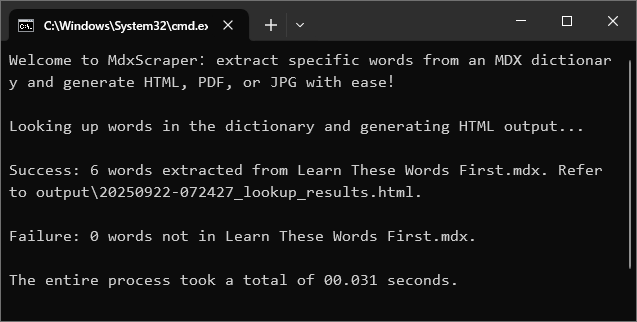
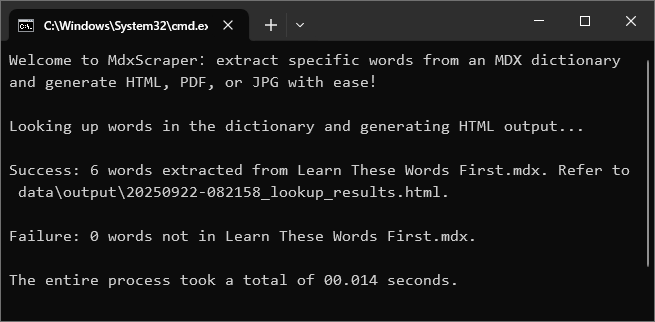
Refactor the project structure to separate data from code.
1. Move input, output and mdict to 'data/'
2. Update README
3. Clean up .gitignore and remove outdated files.

diff --git a/data/output/20250922-082733_lookup_results.html b/data/output/20250922-082733_lookup_results.html
@@ -1,0 +1,57 @@
+<head>
+<meta charset="utf-8"/><style type="text/css">div {font-family:Ariel,sans-serif;margin:0;border:0;padding:0;}
+p {font-size:1em;margin:10px;border:0;padding:0;}
+ul {margin:10px;border:0;padding:0;}
+li {font-family:Ariel,sans-serif;font-size:1em;margin:10px 10px 10px 30px;border:0;padding:0;}
+a:link {color:blue;}
+a:visited {color:purple;}
+.Header{font-size:1.5em;}
+.Headword {color:red;}
+.Definition {font-size:1.1em;}
+.Caption {font-size:1.1em;}
+.Sense {font-size:1.1em;}
+img {height:auto;width:auto;max-width:100%;border:0;}
+img.Image {width:auto;max-width:100%;height:auto;max-height:400px;}
+img.Gloss {width:auto;max-width:100%;height:auto;max-height:100px;}
+p.Image {margin-left:0;margin-right:0;}
+p.Gloss {margin-left:0;margin-right:0;}
+@media screen and (min-width:940px)
+{
+p.Image {margin-left:10px;margin-right:10px;}
+p.Gloss {margin-left:10px;margin-right:10px;}
+}
+
+a.lesson {font-size:120%; color: #1a237e; text-decoration: none; cursor: pointer; border-bottom: none;}
+a.lesson:hover {background-color: #e3f2fd}
+a.word {color: #1565c0; text-decoration: none; cursor: pointer; font-variant: normal; font-weight: normal; border-bottom: none;}
+a.word:hover {background-color: #e3f2fd;}
+a.invalid_word {color: #909497;}
+div.main {width: 100%; height: 100%;}
+div.left {width: 180px; overflow: auto; float: left; height: 100%;}
+div.right {overflow-y: auto; overflow-x: hidden; padding-left: 10px; height: 100%;}
+</style></head><html>
+<body style="font-family:Arial Unicode MS;"><div class="left"><a class="lesson" href="#lesson_ Lesson 1"> Lesson 1</a><br/>
+<a class="word" href="#word_welcome">welcome</a><br/>
+<a class="word" href="#word_summer">summer</a><br/>
+<a class="word" href="#word_crime">crime</a><br/>
+<br/><a class="lesson" href="#lesson_ Lesson 2"> Lesson 2</a><br/>
+<a class="word" href="#word_flame">flame</a><br/>
+<a class="word" href="#word_meat">meat</a><br/>
+<a class="word" href="#word_camera">camera</a><br/>
+<br/></div><div class="main"><div class="right"><h1 id="lesson_ Lesson 1" style="color:#FFFFFF; background-color:#003366; padding-left:20px; line-height:initial;"> Lesson 1</h1>
+<div class="scrapedword" id="word_welcome" style="padding: 10px 0 10px 0; border-bottom: 0.5mm ridge rgba(111, 160, 206, .6);"><p class="Header"><b class="Headword">welcome</b></p>
+<ul>
+<li class="Sense">When someone moves into a place, you say you are happy that they are here.</li>
+<li class="Sense">You say you are happy to help someone.</li>
+<li class="Sense">You say you are happy this happens.</li>
+</ul></div>
+<div class="scrapedword" id="word_summer" style="padding: 10px 0 10px 0; border-bottom: 0.5mm ridge rgba(111, 160, 206, .6);"><p class="Header"><b class="Headword">summer</b></p>
+<p class="Sense">Three months that are the hot part of a year.</p></div>
+<div class="scrapedword" id="word_crime" style="padding: 10px 0 10px 0; border-bottom: 0.5mm ridge rgba(111, 160, 206, .6);"><p class="Header"><b class="Headword">crime</b></p>
+<p class="Sense">When someone does something bad that the government rules do not allow.</p></div><h1 id="lesson_ Lesson 2" style="color:#FFFFFF; background-color:#003366; padding-left:20px; line-height:initial;"> Lesson 2</h1>
+<div class="scrapedword" id="word_flame" style="padding: 10px 0 10px 0; border-bottom: 0.5mm ridge rgba(111, 160, 206, .6);"><p class="Header"><b class="Headword">flame</b></p>
+<p class="Sense">The light you see where hot gas is burning.</p></div>
+<div class="scrapedword" id="word_meat" style="padding: 10px 0 10px 0; border-bottom: 0.5mm ridge rgba(111, 160, 206, .6);"><p class="Header"><b class="Headword">meat</b></p>
+<p class="Sense">The parts of an animal that someone can eat.</p></div>
+<div class="scrapedword" id="word_camera" style="padding: 10px 0 10px 0; border-bottom: 0.5mm ridge rgba(111, 160, 206, .6);"><p class="Header"><b class="Headword">camera</b></p>
+<p class="Sense">Machine you can use to make a picture of something you can see, using the light that moves into the machine from the thing you can see.</p></div></div></div></body></html>

diff --git a/settings.py b/settings.py
@@ -3,7 +3,7 @@
 # MdxScraper settings
 
 # 设置要查询的词条文件的位置，支持txt、json和excel
-INPUT_PATH = 'input'
+INPUT_PATH = 'data/input'
 INPUT_NAME = 'words_to_lookup.txt'
 
 # 设置要查询的词典：类别（需要引号）和序号（从0开始计数）
@@ -11,7 +11,7 @@ dictionary_type = 'English'
 dictionary_order = 0
 
 # 定义词典文件的存放位置
-DICTIONARY_PATH = 'lib/mdict'
+DICTIONARY_PATH = 'data/mdict'
 # 定义可用词典列表，可以使用子目录
 dictionaries = {
     "Chinese": [
@@ -21,7 +21,7 @@ dictionaries = {
         '汉语辞海/汉语辞海20190923重排.mdx',
     ],
     "English": [
-        'sample/Learn These Words First.mdx',
+        'Learn These Words First/Learn These Words First.mdx',
         '简明英汉增强升级必应版/concise-bing.mdx',
         'Collins COBUILD 8th/Collins COBUILD 8th.mdx',
         '牛津小学生英汉双解词典/OxfordPrimary.mdx',
@@ -38,7 +38,7 @@ dictionaries = {
 DICTIONARY_NAME = dictionaries[dictionary_type][dictionary_order]
 
 # 设置输出文件的位置
-OUTPUT_PATH = 'output'
+OUTPUT_PATH = 'data/output'
 # 设置输出文件名，支持html、pdf和jpg；若为空，则采用'输入文件名.html'
 OUTPUT_NAME = 'lookup_results.html'
 

diff --git a/README.md b/README.md
@@ -51,7 +51,7 @@ To set up the project locally, you will need a working Python environment (Pytho
    uv sync
    ```
 
-4. Install wkhtmltopdf (for PDF)
+4. **Install wkhtmltopdf (optional, for PDF):**
    * https://wkhtmltopdf.org/downloads.html
 
 ## 日常使用
